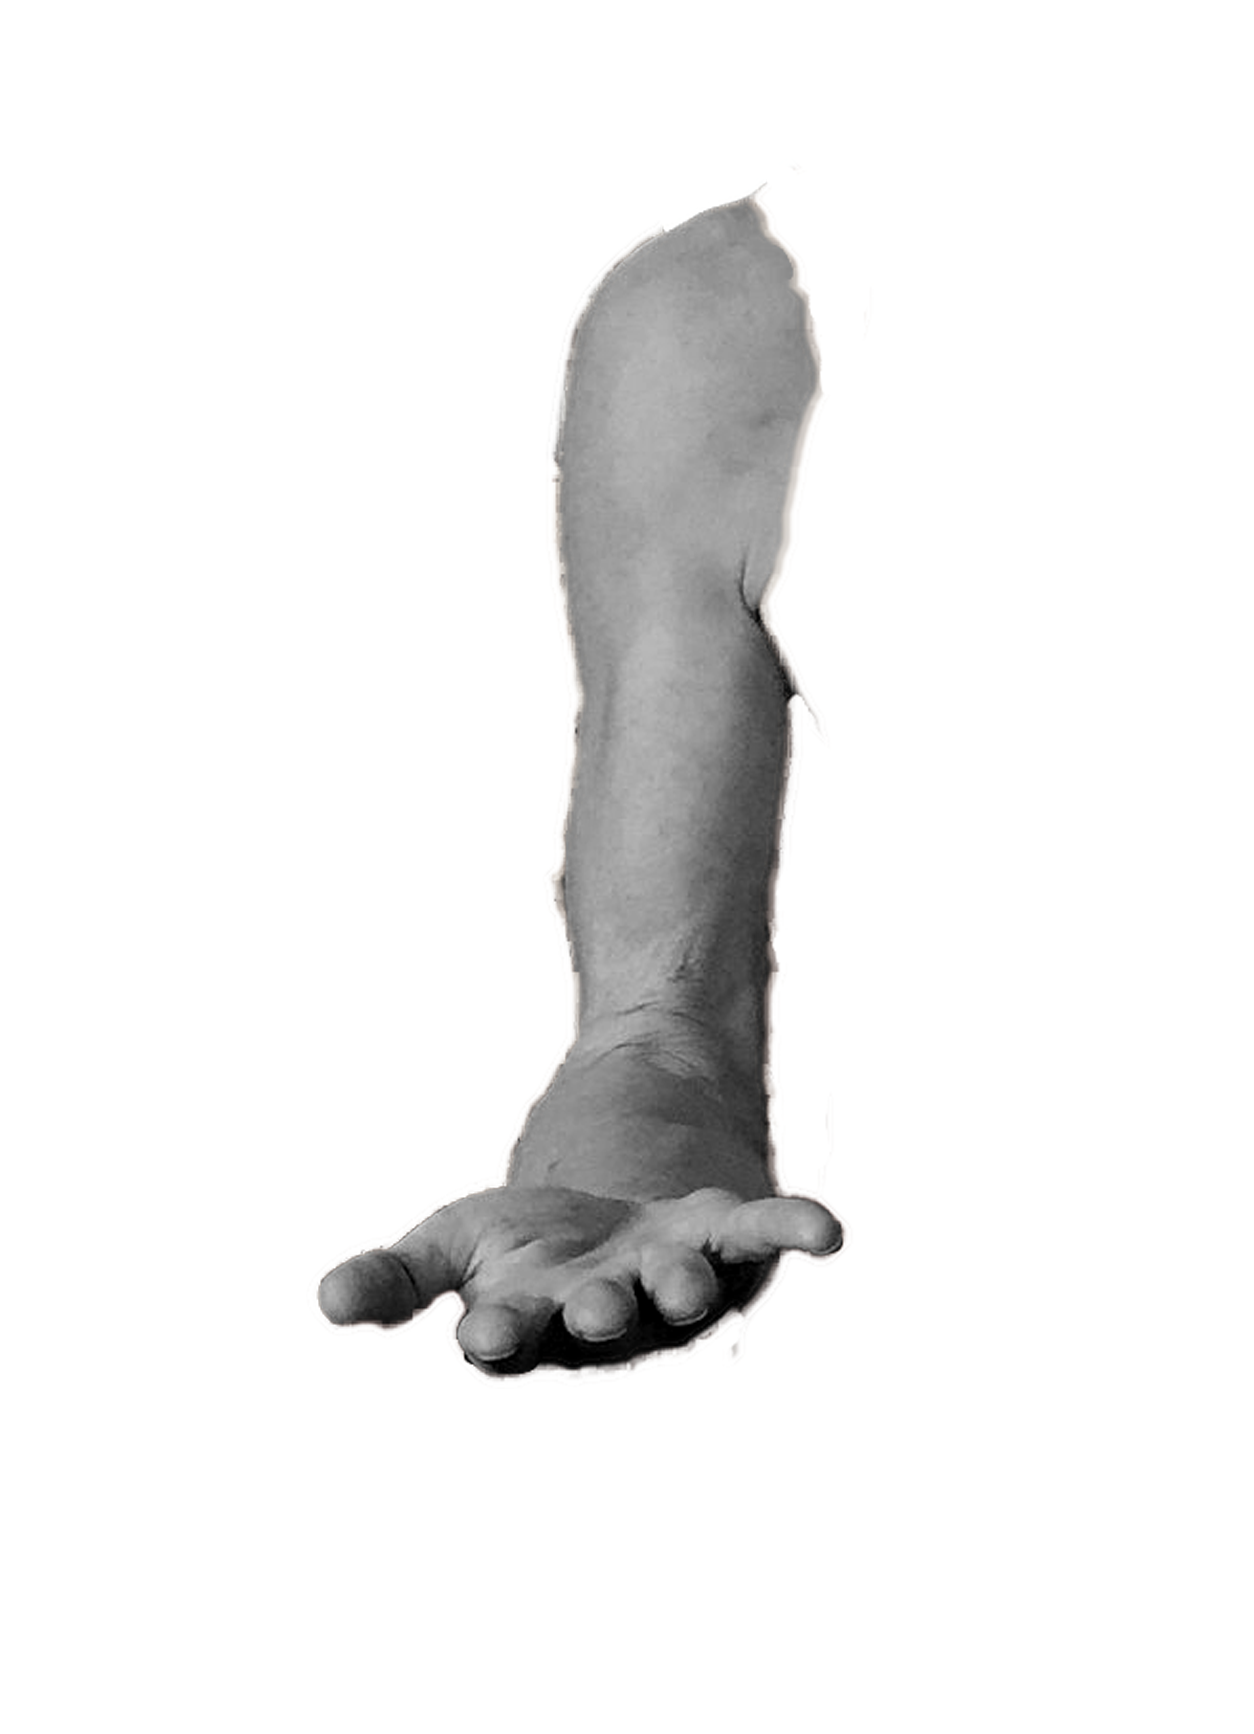
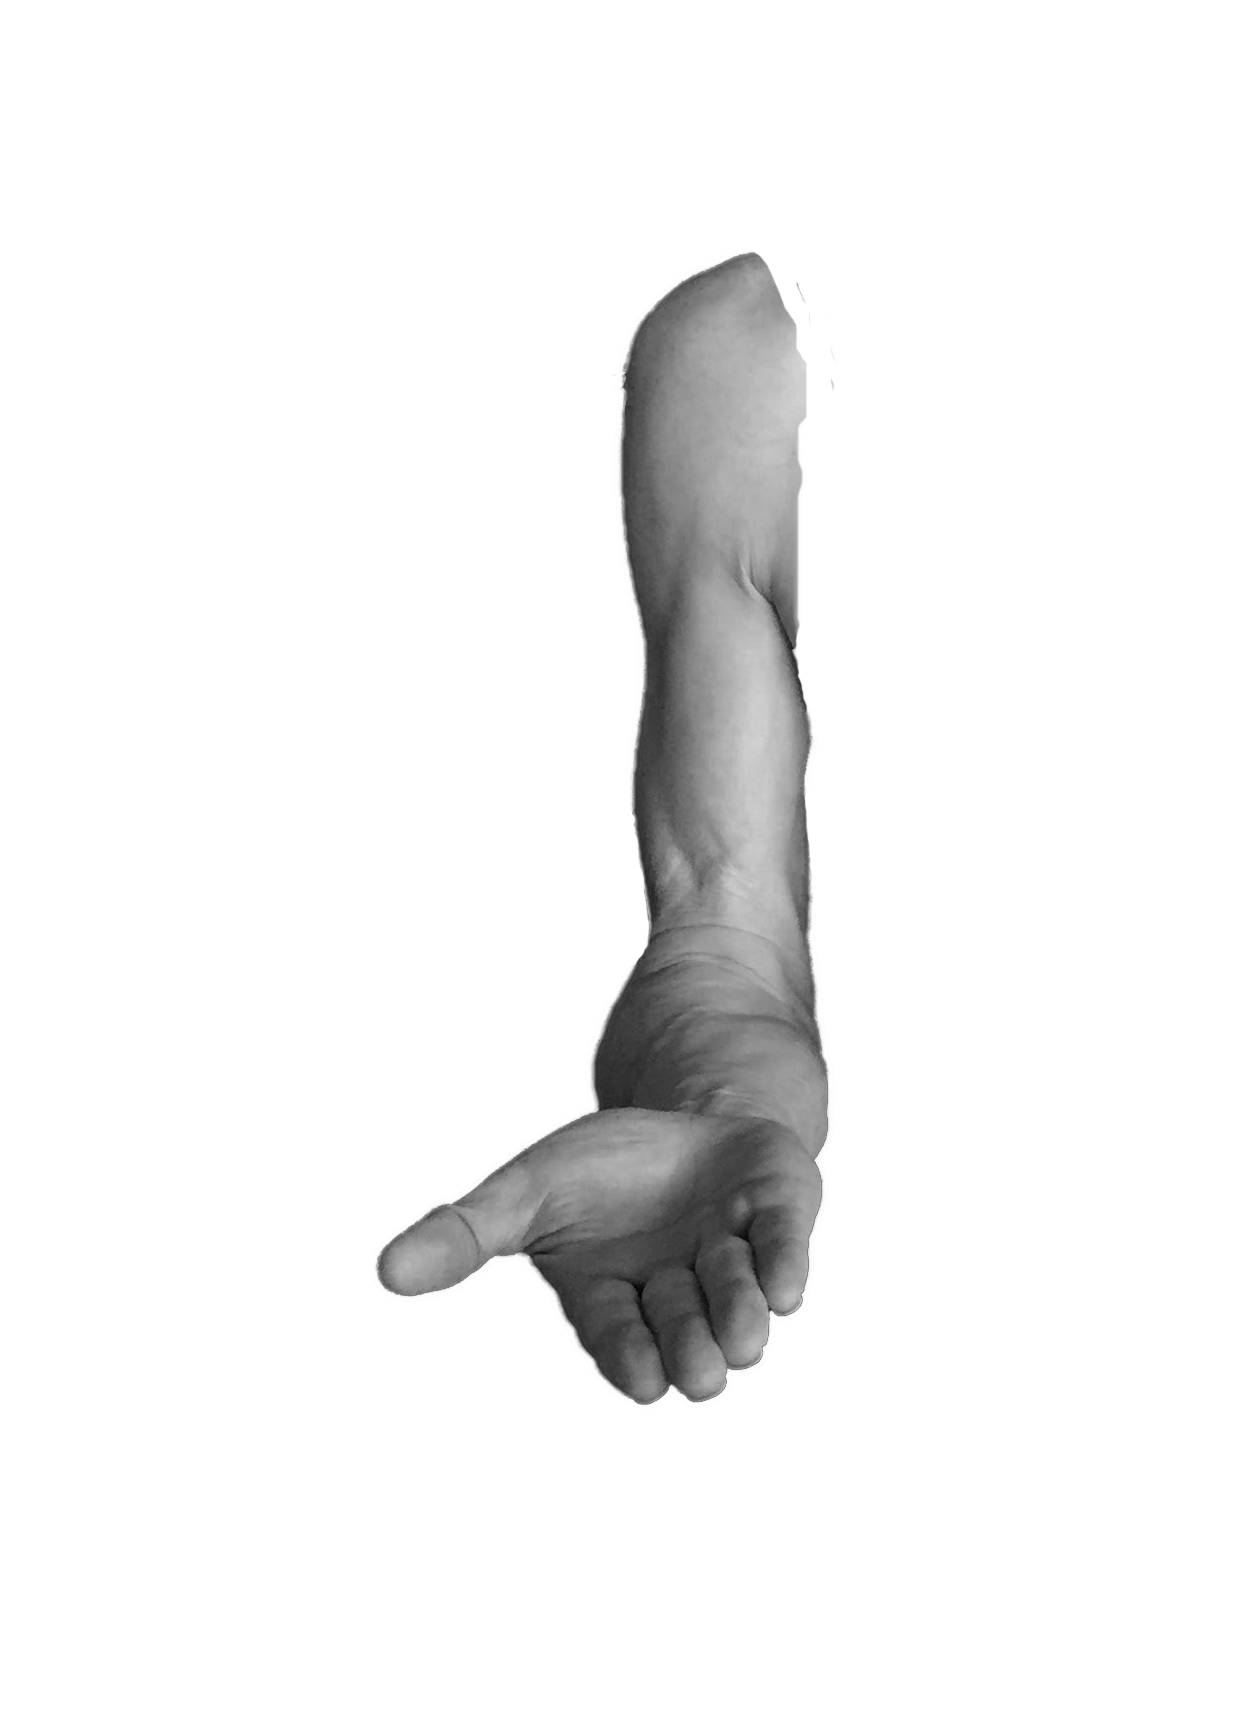
Added more joint images.  Corrected rotation and default locations. Fixed tool offset bug by using viewDidLayoutSubviews to wait for the correct imagezview size.

Changed region(s): [[0.2488, 0.0934, 0.6842, 0.8097]]

diff --git a/Bodyflex/Model/BodyJoints.swift b/Bodyflex/Model/BodyJoints.swift
@@ -135,10 +135,10 @@ let forearm = Joint.init(name: .init(common: "Forearm", medical: ""),
                                                        normalAAOS: "81,4.0",
                                                        position: "",
                                                        description: "Turn lower palm so arm faces up",
-                                                       rotation: "CW",
+                                                       rotation: "CCW",
                                                        insideOutside: "Inside",
-                                                       defaultDotPoints: [CGPoint(x: 100, y: 300), CGPoint(x: 100, y: 200), CGPoint(x: 150, y: 200)],
-                                                       labelOffsets: ["Up", "Up", "Up"]),
+                                                       defaultDotPoints: [CGPoint(x: 961, y: 353), CGPoint(x: 959, y: 1139), CGPoint(x: 363, y: 1077)],
+                                                       labelOffsets: ["Up", "Down", "Up"]),
                                 MotionStruct.init(name: .init(common: "Palm Down", medical: "Pronation"),
                                                        stationaryLabel: .init(common: "Parallel to Upper Arm", medical: "Parallel to Humerus"),
                                                        axisLabel: .init(common: "Outside Wrist", medical: "Lateral to Ulnar Styloid"),
@@ -149,8 +149,8 @@ let forearm = Joint.init(name: .init(common: "Forearm", medical: ""),
                                                        description: "Turn lower arm so palm faces down",
                                                        rotation: "CW",
                                                        insideOutside: "Inside",
-                                                       defaultDotPoints: [CGPoint(x: 100, y: 300), CGPoint(x: 100, y: 200), CGPoint(x: 150, y: 200)],
-                                                       labelOffsets: ["Up", "Up", "Up"]),])
+                                                       defaultDotPoints: [CGPoint(x: 467, y: 385), CGPoint(x: 347, y: 1180), CGPoint(x: 921, y: 1086)],
+                                                       labelOffsets: ["Up", "Down", "Up"]),])
 
 let wristJoint = Joint.init(name: .init(common: "Wrist", medical: ""),
                          motions: [
@@ -188,8 +188,8 @@ let wristJoint = Joint.init(name: .init(common: "Wrist", medical: ""),
                                                    description: "",
                                                    rotation: "CW",
                                                    insideOutside: "Outside",
-                                                   defaultDotPoints: [CGPoint(x: 100, y: 300), CGPoint(x: 100, y: 200), CGPoint(x: 150, y: 200)],
-                                                   labelOffsets: ["Up", "Up", "Up"]),
+                                                   defaultDotPoints: [CGPoint(x: 524, y: 394), CGPoint(x: 761, y: 980), CGPoint(x: 735, y: 1280)],
+                                                   labelOffsets: ["Left", "Right", "Down"]),
                             MotionStruct.init(name: .init(common: "Hand In", medical: "Ulnar Deviation"),
                                                    stationaryLabel: .init(common: "Elbow", medical: "Lateral Epicondyle"),
                                                    axisLabel: .init(common: "Wrist", medical: "Capitate"),
@@ -198,10 +198,10 @@ let wristJoint = Joint.init(name: .init(common: "Wrist", medical: ""),
                                                    normalAAOS: "35,3.8",
                                                    position: "",
                                                    description: "",
-                                                   rotation: "CW",
+                                                   rotation: "CCW",
                                                    insideOutside: "Outside",
-                                                   defaultDotPoints: [CGPoint(x: 100, y: 300), CGPoint(x: 100, y: 200), CGPoint(x: 150, y: 200)],
-                                                   labelOffsets: ["Up", "Up", "Up"]),])
+                                                   defaultDotPoints: [CGPoint(x: 547, y: 459), CGPoint(x: 618, y: 1055), CGPoint(x: 789, y: 1381)],
+                                                   labelOffsets: ["Left", "Left", "Down"]),])
 
 let knuckleJoint = Joint.init(name: .init(common: "Knuckle", medical: "Metacarpophalangeal"),
                               motions: [
@@ -579,8 +579,8 @@ let neckJoint = Joint.init(name: .init(common: "Neck", medical: "Cervical Spine"
                                               description: "",
                                               rotation: "CW",
                                               insideOutside: "Inside-90",
-                                              defaultDotPoints: [CGPoint(x: 100, y: 300), CGPoint(x: 100, y: 200), CGPoint(x: 150, y: 200)],
-                                                                 labelOffsets: ["Up", "Up", "Up"]),
+                                              defaultDotPoints:  [CGPoint(x: 748, y: 300), CGPoint(x: 760, y: 892), CGPoint(x: 923, y: 1211)],
+                                                                 labelOffsets: ["Up", "Left", "Down"]),
                             MotionStruct.init(name: .init(common: "Head Back", medical: "Eversion"),
                                               stationaryLabel: .init(common: "Vertical", medical: ""),
                                               axisLabel: .init(common: "Ear", medical: "External Auditory Meatus"),
@@ -590,9 +590,9 @@ let neckJoint = Joint.init(name: .init(common: "Neck", medical: "Cervical Spine"
                                               position: "",
                                               description: "",
                                               rotation: "CW",
-                                              insideOutside: "Outside-90",
-                                              defaultDotPoints: [CGPoint(x: 100, y: 300), CGPoint(x: 100, y: 200), CGPoint(x: 150, y: 200)],
-                                              labelOffsets: ["Up", "Up", "Up"]),
+                                              insideOutside: "Inside",
+                                              defaultDotPoints: [CGPoint(x: 609, y: 340), CGPoint(x: 610, y: 860), CGPoint(x: 790, y: 584)],
+                                              labelOffsets: ["Up", "Right", "Right"]),
                             MotionStruct.init(name: .init(common: "Side Bending", medical: ""),
                                               stationaryLabel: .init(common: "Backbone", medical: "Spinous Processes of Thoracic Spine"),
                                               axisLabel: .init(common: "Neck", medical: "Spinous Process of C7"),

diff --git a/Bodyflex/SelectJointViewController.swift b/Bodyflex/SelectJointViewController.swift
@@ -114,13 +114,18 @@ class SelectJointViewController: UIViewController , UITableViewDelegate, UITable
         setAngleToolDrawing()
     }
     
-    
-    override func viewWillAppear(_ animated: Bool) {
+    override func viewDidLayoutSubviews() {
         jointMotionTable.reloadData()
         
         updateJointImage()
-
     }
+    
+//    override func viewWillAppear(_ animated: Bool) {
+//        jointMotionTable.reloadData()
+//
+//        updateJointImage()
+//
+//    }
     
     //Restore dot positions from core data or use default
     fileprivate func restoreLocation() {
@@ -267,12 +272,20 @@ extension SelectJointViewController {
             let selectedJoint = jointPickerViewController.selectedJoint {
             self.joint = selectedJoint
             self.motion = selectedJoint.motions[0] //Default to the first motion of new joint selected
+            jointMotionTable.reloadData()
+            
+            updateJointImage()
+
         }
     }
     @IBAction func unwindWithSelectedMotion(segue: UIStoryboardSegue) {
         if let motionPickerViewController = segue.source as? MotionPickerViewController,
             let selectedMotion = motionPickerViewController.selectedMotion {
             self.motion = selectedMotion
+            jointMotionTable.reloadData()
+            
+            updateJointImage()
+
         }
     }
 }

diff --git a/Bodyflex/MeasurementCollectionCell.swift b/Bodyflex/MeasurementCollectionCell.swift
@@ -62,7 +62,8 @@ class MeasurementCollectionCell: UICollectionViewCell {
             dateLabel.text = dateFormatter.string(from: dateObj!)
             
             //DEBUG: show tool position
-            debugText.text = positionString()
+//            debugText.text = positionString()
+            debugText.isHidden = true
             
         }
     }
